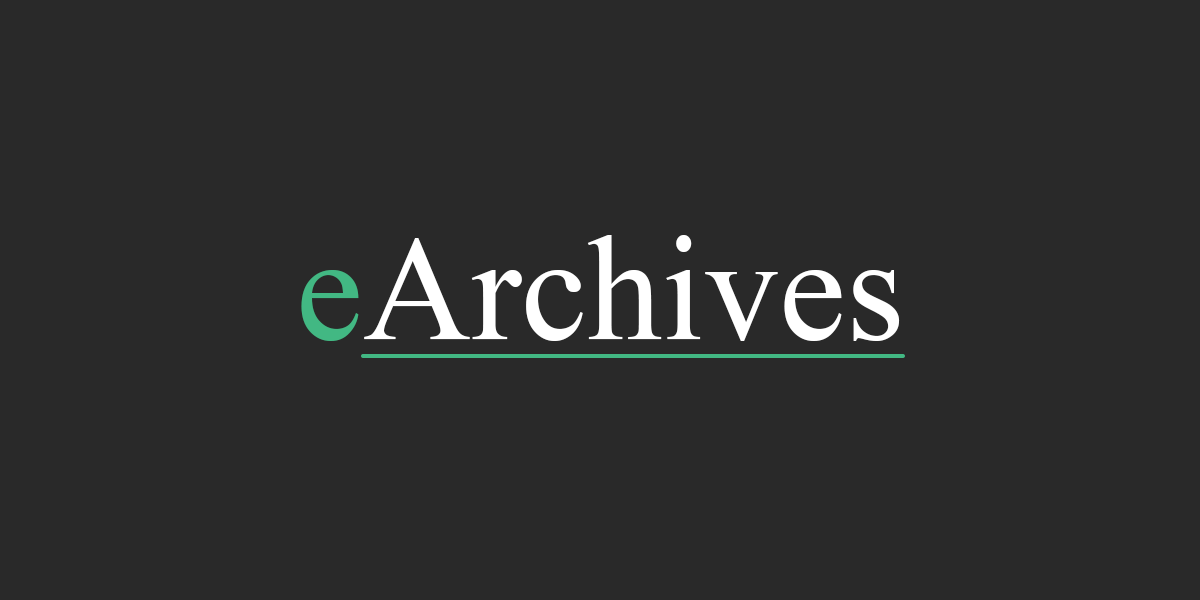
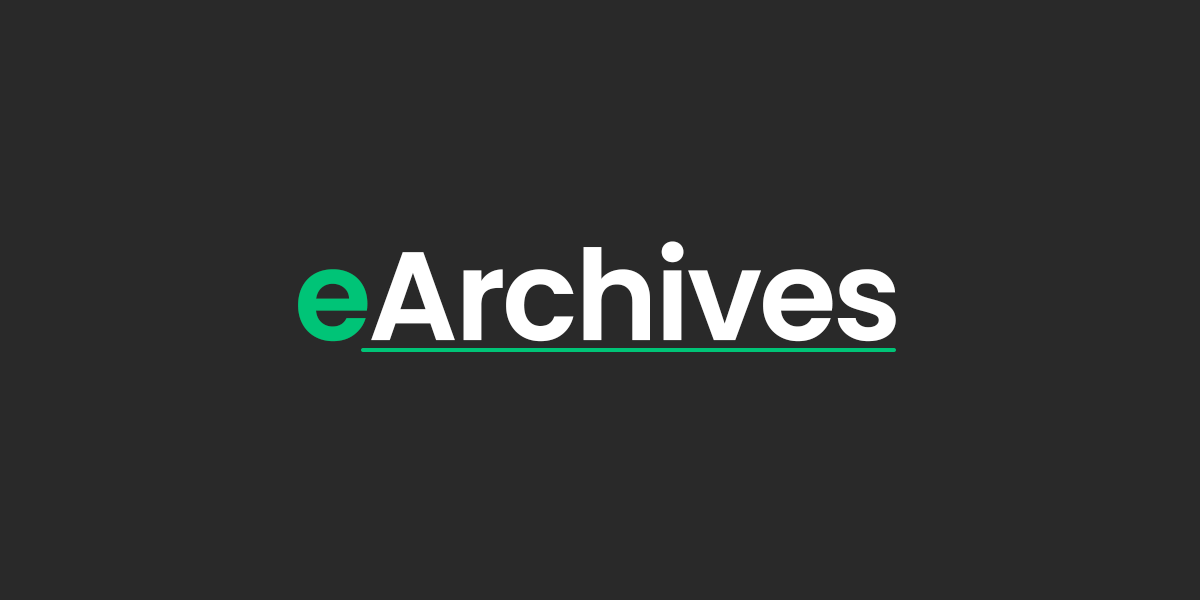
Updated from projectDema to NoidEarth

Changed region(s): [[0.2467, 0.39, 0.7708, 0.6]]

diff --git a/src/App.vue b/src/App.vue
@@ -5,7 +5,7 @@
   let org = {
     projects: [
       {
-        url: 'https://github.com/projectdema/earchives',
+        url: 'https://github.com/noid-earth/earchives',
         banner: '/eArchives/banner.png',
         name: 'eArchives',
         descripton: 'A library of study files on a variety of subjects.',
@@ -16,7 +16,7 @@
       {
         icon: 'https://i.imgur.com/UYYFkDS.jpg',
         name: 'Jürgen',
-        role: 'Manager',
+        role: 'Founder',
         github: 'https://github.com/jurgenjacobsen',
       },
       {
@@ -57,11 +57,8 @@
   <main>
     
     <div id="" class="container mx-auto px-4 mt-8 pb-40">
-      <h1 class="text-4xl text-white">A programming organization</h1>
-      <p class="text-lg w-full md:w-1/2 opacity-70 py-2 block">An organization created to bring code lovers together to create innovative, creative and fun projects.</p>
-      <a href="#projects" class="px-6 py-2 mt-2 rounded-lg bg-accent inline-block">
-        See more
-      </a>
+      <h1 class="text-4xl text-white">Hello!</h1>
+      <p class="text-lg w-full md:w-2/3 opacity-70 py-2 block">We are a group of enthusiastic developers creating innovative, creative non-profit projects.</p>
     </div>
 
     <div id="projects" class="bg-[#292929]">
@@ -90,53 +87,6 @@
       </div>
     </div>
 
-    <div id="about" class="">
-      <div class="container mx-auto p-8 pb-20">
-        <h1 class="text-4xl text-white text-center md:text-left">About</h1>
-
-        <div class="grid md:grid-cols-2 md:gap-4">
-          <div>
-            <h1 class="text-lg text-accent">Why?</h1>
-            <p class="opacity-70 md:w-4/5 mt-2">
-              Lorem ipsum, dolor sit amet consectetur adipisicing elit. Praesentium, distinctio, doloribus maiores commodi eius nostrum totam earum placeat obcaecati ipsa culpa quas accusantium laboriosam sequi molestiae sed animi molestias modi.
-            </p>
-          </div>
-          <div>
-            <h1 class="text-lg text-accent mt-4 md:mt-0">Members</h1>
-            <div class="grid grid-cols-2 md:grid-cols-4 gap-4 mt-2">
-              <a v-for="(m, i) in org.members" v-bind:key="i" :href="(m.github.length > 5) ? m.github : '#about'">
-                <div class="text-center outline-2 outline-dashed outline-[#292929] rounded-lg p-2 hover:opacity-70 transition-opacity duration-300">
-                  <img :src="m.icon " class="rounded-full w-12 h-12 object-cover inline-block"/>
-                  <span class="text-lg block mt-1">{{ m.name }}</span>
-                  <span class="text-sm bg-[#292929] px-2 py-0.5 rounded-full block mt-1">{{ m.role }}</span>
-                </div>
-              </a>
-            </div>
-          </div>
-        </div>
-      </div>
-    </div>
-
-    <div id="statistics" class="bg-[#292929]">
-      <div class="container mx-auto p-8 md:pb-20">
-        <h1 class="text-4xl text-white text-center md:text-right">Statistics</h1>
-
-        <section class="mb-32 text-center p-4 mt-14">
-
-          <div class="grid grid-cols-1 md:grid-cols-2 lg:grid-cols-4 gap-x-6 items-center">
-
-            <div class="bg-[#1d1d1d] md:bg-transparent rounded-lg mt-2 md:mt-0 p-4 md:p-0" v-for="stat in org.stats" v-bind:key="stat.num">
-              
-              <h5 class="text-xl md:mb-4">{{ stat.num }}<span class="text-accent">+</span></h5>
-              <h6 class="text-lg">{{ stat.title }}</h6>
-              
-            </div>
-
-          </div>
-        </section>
-      </div>
-    </div>
-
     <div id="contact" class="">
       <div class="container mx-auto p-8 md:pb-20">
         <h1 class="text-4xl text-white text-center md:text-left">Contact</h1>
@@ -148,7 +98,7 @@
             <ul>
               <li class="py-2">
                 <a href="mailto:contact@projectdema.com" class="font-semibold">
-                  <i class="fa-solid fa-envelope opacity-50"></i> <span class="px-2 text-accent">contact@projectdema.com</span>
+                  <i class="fa-solid fa-envelope opacity-50"></i> <span class="px-2 text-accent">contact@noid.earth</span>
                 </a>
               </li>
               <li class="py-2">
@@ -163,19 +113,19 @@
 
             <ul>
               <li class="py-2">
-                <a href="https://github.com/projectdema" class="font-semibold" target="_blank" rel="noopener noreferrer">
+                <a href="https://github.com/noid-earth" class="font-semibold" target="_blank" rel="noopener noreferrer">
                   <i class="fa-brands fa-github opacity-50"></i> <span class="px-2 text-accent">Github</span>
                 </a>
               </li>
 
               <li class="py-2">
-                <a href="https://instagram.com/projectdema" class="font-semibold" target="_blank" rel="noopener noreferrer">
+                <a href="https://instagram.com/noid-earth" class="font-semibold" target="_blank" rel="noopener noreferrer">
                   <i class="fa-brands fa-instagram opacity-50"></i> <span class="px-2 text-accent">Instagram</span>
                 </a>
               </li>
 
               <li class="py-2">
-                <a href="https://twitter.com/projectdema" class="font-semibold" target="_blank" rel="noopener noreferrer">
+                <a href="https://twitter.com/noid-earth" class="font-semibold" target="_blank" rel="noopener noreferrer">
                   <i class="fa-brands fa-twitter opacity-50"></i> <span class="px-2 text-accent">Twitter</span>
                 </a>
               </li>

diff --git a/src/components/Header.vue b/src/components/Header.vue
@@ -1,35 +1,10 @@
 <template>
-    <nav class="py-2.5 rounded-lg">
+    <nav class="mt-2 py-4 rounded-lg">
       <div class="flex flex-wrap items-center justify-between">
 
         <a href="/">
-          <span class="text-xl font-semibold ml-4">project<span class="text-accent">Dema</span></span>
+          <span class="text-xl font-semibold ml-4">Noid<span class="text-accent">Earth</span></span>
         </a>
-
-        <button data-collapse-toggle="navbar" type="button" class="inline-flex items-center p-2 ml-3 text-sm rounded-lg md:hidden" aria-controls="navbar" aria-expanded="false">
-          <span class="sr-only">Open main menu</span>
-          <i class="fa-solid fa-bars p-2"></i>
-        </button>
-
-        <div class="hidden w-full md:block md:w-auto" id="navbar">
-          <ul class="flex flex-col p-4 mt-4 border bg-[#292929] rounded-lg md:m-0 m-4 md:flex-row md:space-x-8 md:mt-0 md:text-sm md:font-medium md:border-0">
-            <li>
-              <a href="#" class="block py-2 pl-3 pr-4 rounded hover:bg-gray-100 md:hover:bg-transparent md:border-0 md:p-0 md:hover:opacity-75">Home</a>
-            </li>
-            <li>
-              <a href="#projects" class="block py-2 pl-3 pr-4 rounded hover:bg-gray-100 md:hover:bg-transparent md:border-0 md:p-0 md:hover:opacity-75">Projects</a>
-            </li>
-            <li>
-              <a href="#about" class="block py-2 pl-3 pr-4 rounded hover:bg-gray-100 md:hover:bg-transparent md:border-0 md:p-0 md:hover:opacity-75">About</a>
-            </li>
-            <li>
-              <a href="#statistics" class="block py-2 pl-3 pr-4 rounded hover:bg-gray-100 md:hover:bg-transparent md:border-0 md:p-0 md:hover:opacity-75">Statistics</a>
-            </li>
-            <li>
-              <a href="#contact" class="block py-2 pl-3 pr-4 rounded hover:bg-gray-100 md:hover:bg-transparent md:border-0 md:p-0 md:hover:opacity-75">Contact</a>
-            </li>
-          </ul>
-        </div>
       </div>
     </nav>
 </template>

diff --git a/index.html b/index.html
@@ -2,11 +2,11 @@
 <html lang="en">
   <head>
     <meta charset="UTF-8">
-    <link rel="icon" href="/images/icon.png">
+    <link rel="icon" href="/images/web-icon.png">
     <meta name="viewport" content="width=device-width, initial-scale=1.0">
     
     <!-- Primary Meta Tags -->
-    <title>projectDema</title>
+    <title>Noid Earth</title>
     <meta name="title" content="projectDema - A programming organization">
     <meta name="description" content="An organization created to bring code lovers together to create innovative, creative and fun projects.">
 
@@ -16,6 +16,8 @@
     <meta property="og:title" content="projectDema - A programming organization">
     <meta property="og:description" content="An organization created to bring code lovers together to create innovative, creative and fun projects.">
     <meta property="og:image" content="https://projectdema.netlify.app/images/banner.png">
+
+    <meta name="theme-color" content="#8855ff">
 
     <!-- Twitter -->
     <meta property="twitter:card" content="summary_large_image">

diff --git a/src/assets/main.css b/src/assets/main.css
@@ -1,6 +1,3 @@
-/* Bowlby One and SC - font-family: 'Bowlby One SC', cursive; */
-@import url('https://fonts.googleapis.com/css2?family=Bowlby+One&family=Bowlby+One+SC&display=swap');
-
 /* Roboto - font-family: 'Roboto', sans-serif;*/
 @import url('https://fonts.googleapis.com/css2?family=Roboto:ital,wght@0,100;0,300;0,400;0,500;0,700;0,900;1,100;1,300;1,400;1,500;1,700;1,900&display=swap');
 
@@ -12,7 +9,7 @@
 @tailwind utilities;
 
 :root {
-    --accent: #5465ff;
+    --accent: #00c477;
 }
 
 html {
@@ -32,7 +29,7 @@ body {
 }
 
 h1, h2, h3, h4, h5 {
-    font-family: 'Bowlby One SC', cursive;
-    font-weight: 400;
-    letter-spacing: 0.2rem;
+    font-family: 'Poppins', sans-serif;
+    font-weight: 700;
+    letter-spacing: 0.1rem;
 }

diff --git a/src/components/Footer.vue b/src/components/Footer.vue
@@ -1,5 +1,5 @@
 <template>
     <div class="text-center text-sm pb-4 opacity-50">
-        Copyright (C) 2021-2022 - project<span class="text-accent font-semibold">Dema</span>
+        Copyright (C) 2023 - Noid<span class="text-accent font-semibold">Earth</span>
     </div>
 </template>
